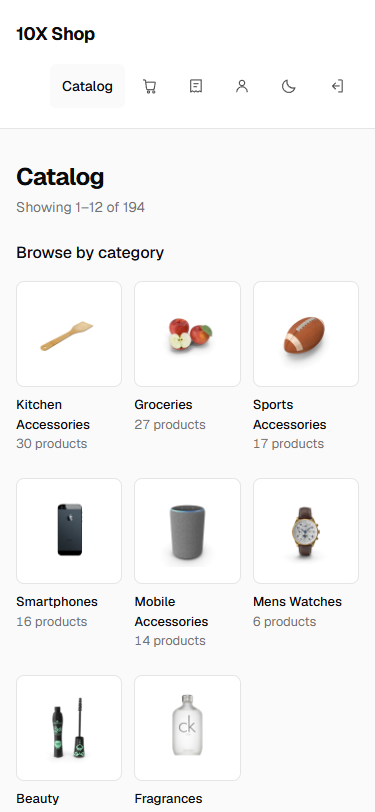
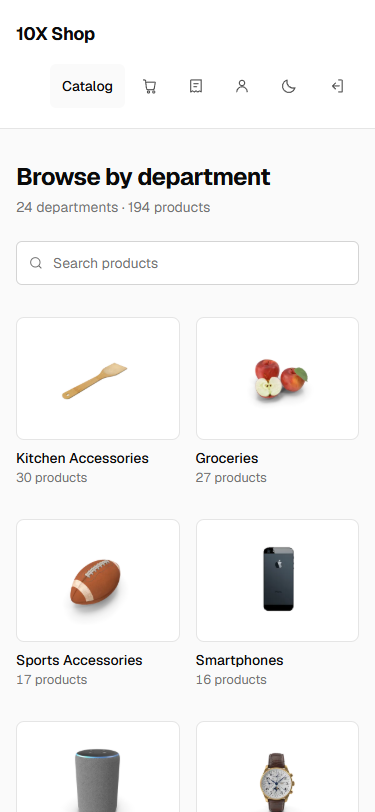
test: cover the department catalogue, and stop one failure killing the run
The cross-browser suite was edited for the new catalogue and not re-run - the
exact failure entry 8 of the debug log is about. Running it produced no
results at all, in either browser: the screenshot block after the last
assertion still waited for an `article` on /catalog, where there are none any
more, and because that block sits outside `step()`'s try/catch the timeout
was uncaught and killed the process before the results were ever printed. One
stale wait destroyed 83 passing assertions.

The waits now name what each state actually renders, and both states are
captured: `-catalog` is the departments, `-department` is inside one.

The one step that loaded 12 products became three, because the page it tested
became two pages: /catalog offers every department and shows no products,
opening one renders its products, and the unfiltered catalogue still pages
exactly twelve at a time. That last one is what keeps P2's CORE outcome
honest after the restructure.

The console check became a console-and-network check. Chrome logs one 404 per
run - the /products/999999 the suite asks for on purpose - and its message
names no URL, so it cannot be told from a genuinely missing asset by its text.
The script now watches responses too, allows that one URL, and fails on any
other status of 400 or worse. That is stricter than what it replaced: it
catches a failed request in Firefox, which Firefox never prints.

84 of 84 assertions, Chrome and Firefox, 375 and 1440, zero horizontal scroll.
[…]

diff --git a/COMPATIBILITY.md b/COMPATIBILITY.md
@@ -8,7 +8,7 @@ the production bundle (`npm run build` then `npm run preview`).
 - **Chrome 156.0.8078.76** — the installed Google Chrome, not bundled Chromium.
 - **Firefox 142.0.1** — Gecko, so the two engines are genuinely different.
 - **Widths:** 375 × 812 (the width O3 names) and 1440 × 900.
-- **Date:** 31 October 2026, re-run against the Sign up work.
+- **Date:** 1 November 2026, re-run against the department catalogue.
 - **Method:** `docs/compat/README.md` records the script and how to re-run it.
 
 > **This matrix went stale once, and that is worth recording.** The first run
@@ -34,7 +34,9 @@ document did not scroll sideways at that width.
 | # | What was checked | Chrome 375 | Chrome 1440 | Firefox 375 | Firefox 1440 |
 | --- | --- | :-: | :-: | :-: | :-: |
 | 0 | Landing shows every category and a sheet of real product photographs | ✓ | ✓ | ✓ | ✓ |
-| 1 | Catalog loads and renders exactly 12 product cards | ✓ | ✓ | ✓ | ✓ |
+| 1a | `/catalog` opens on every department and shows no products yet | ✓ | ✓ | ✓ | ✓ |
+| 1b | Opening a department renders its products as cards | ✓ | ✓ | ✓ | ✓ |
+| 1c | The unfiltered catalogue still pages exactly 12 at a time | ✓ | ✓ | ✓ | ✓ |
 | 2 | A card opens `/products/:id` | ✓ | ✓ | ✓ | ✓ |
 | 3 | Add to cart moves the header badge to 1 | ✓ | ✓ | ✓ | ✓ |
 | 4 | Cart shows the line and a currency-formatted total | ✓ | ✓ | ✓ | ✓ |
@@ -52,9 +54,18 @@ document did not scroll sideways at that width.
 | 16 | `/products/999999` shows "Page not found" | ✓ | ✓ | ✓ | ✓ |
 | 17 | `/products/5` opens from a direct visit (SPA rewrite) | ✓ | ✓ | ✓ | ✓ |
 | — | No horizontal scroll after every step above | ✓ | ✓ | ✓ | ✓ |
+| — | No console error and no unexpected failed request | ✓ | ✓ | ✓ | ✓ |
 
-**72 of 72 assertions passed** — 18 steps × 2 widths × 2 browsers. No layout or
-behavioural difference was found between the two engines, at either width.
+**84 of 84 assertions passed** — 20 steps plus one console-and-network check,
+each at 2 widths in 2 browsers. No layout or behavioural difference was found
+between the two engines, at either width.
+
+Rows 1a to 1c are the three the catalogue restructure added. The catalogue now
+opens on its departments, so 1a asserts both halves of that — every department
+is offered, and no products are shown before one is chosen. 1b proves a
+department really fetches and renders its own stock. 1c keeps the CORE P2
+promise honest: asking for the whole catalogue still returns a page of exactly
+twelve, so the restructure changed the entry point, not the pagination.
 
 Rows 9 and 10 are the pair that matters most. Sign up would be meaningless if
 the password it set were never checked (row 9), and CORE would be broken if
@@ -62,13 +73,15 @@ signing up became a precondition for logging in (row 10) — A1.6 fixes that any
 non-empty username signs in, and the CORE Measurable Outcome for P1 depends on
 it. Both are asserted on every run so neither can regress unnoticed.
 
-Screenshots of the catalogue in each browser at each width are in
-`docs/compat/`:
+Screenshots of both of the catalogue's states, in each browser at each width,
+are in `docs/compat/`:
 
 | | 375px | 1440px |
 | --- | --- | --- |
-| Chrome | `chrome-mobile-catalog.png` | `chrome-desktop-catalog.png` |
-| Firefox | `firefox-mobile-catalog.png` | `firefox-desktop-catalog.png` |
+| Chrome, departments | `chrome-mobile-catalog.png` | `chrome-desktop-catalog.png` |
+| Chrome, one department | `chrome-mobile-department.png` | `chrome-desktop-department.png` |
+| Firefox, departments | `firefox-mobile-catalog.png` | `firefox-desktop-catalog.png` |
+| Firefox, one department | `firefox-mobile-department.png` | `firefox-desktop-department.png` |
 
 ## The one difference, and why it is not a defect
 
@@ -79,17 +92,26 @@ Failed to load resource: the server responded with a status of 404 ()
   https://dummyjson.com/products/999999
 ```
 
-That request is row 12 doing its job. `fetchProductById` asks DummyJSON for a
+That request is row 16 doing its job. `fetchProductById` asks DummyJSON for a
 product that does not exist, DummyJSON answers 404, and the function returns
 `null` so the page can show "Page not found" rather than an error. Chrome
 reports every failed HTTP response in the console whether or not the page
 handles it; Firefox does not. Nothing is thrown, nothing is unhandled, and the
 user-facing result is identical in both browsers.
 
-Confirmed by listening for failing responses directly: loading the catalogue,
-a real product, the cart, login and checkout produces no failing request in
-either browser. The only 404 in the whole suite is the one above, which the
-application asks for on purpose.
+**The suite now tells the two apart itself**, rather than leaving a red cell for
+a human to excuse. Chrome's message names no URL — it is the same sentence for a
+deliberate probe and for a genuinely missing asset — so the script cannot judge
+it from the text. It listens to the network as well, treats one named URL
+(`dummyjson.com/products/999999`) as expected, and fails the run on any other
+request of status 400 or worse. That makes the check stricter than the console
+one it replaced: it now also catches a failed request in Firefox, which Firefox
+would never have printed.
+
+Verified by walking every route with a response listener attached. The landing
+page, the departments, one department, the paged catalogue, a real product,
+`/nope` and `/products/abc` produce no failing request at all. The only 404 in
+the whole suite is the one above, which the application asks for on purpose.
 
 ## What was not covered
 

diff --git a/REPORT.md b/REPORT.md
@@ -40,7 +40,7 @@ its reason.
 | Landing (not in Annex A) | The shop as its own mail-order catalogue: cover, issue figures, two scrollable runs, departments | Added on instruction |
 | P1 Login | Controlled form, required validation, Context update, redirect | Done |
 | P1.1 Sign Up | FULL — local accounts, hashed password, duplicate names refused | Done on instruction |
-| P2 Catalog | `GET /products`, typed data, ProductCard/Grid, navigation, Add to cart | Done |
+| P2 Catalog | `GET /products`, typed data, ProductCard/Grid, navigation, Add to cart | Done; opens on departments (deviation 2) |
 | P2.2-P2.8 Catalog FULL | Skeletons, Retry, AbortController, search + debounce, category, sort, pagination, URL-as-state | Done |
 | P3 Product | `useParams`, `GET /products/:id`, details, stock states, Add to cart | Done |
 | P3.4-P3.5 Product FULL | Tabs, reviews with a live average, related products | Done |
@@ -61,12 +61,14 @@ Lighthouse report, the cross-browser matrix, `@theme`, generics, OOP).
 Step 24, deploy, is prepared but not executed — it is the one requirement of
 any level still open.
 
-### One deliberate deviation from Annex A1.2
+### Two deliberate deviations from Annex A1.2
 
-**`/` is a landing page; the catalogue is at `/catalog`.** A1.2's route map
-puts the catalogue at `/`, and this moves it. It was asked for, and it is the
-only place the implementation knowingly departs from the route map, so it is
-recorded here rather than left for a reader to discover.
+Both were asked for, both touch how a shopper reaches the products, and both
+are recorded here rather than left for a reader to discover.
+
+#### 1. `/` is a landing page; the catalogue is at `/catalog`
+
+A1.2's route map puts the catalogue at `/`, and this moves it.
 
 What was done to keep the CORE outcomes intact:
 
@@ -77,12 +79,50 @@ What was done to keep the CORE outcomes intact:
   the first screen.
 - **Every link whose words say "catalog" goes to `/catalog`**, and P1.3's
   fallback after sign-in — "otherwise the catalogue" — points there too.
-- **`/catalog` is the full P2 page**, unchanged: twelve products, the toolbar,
-  pagination and the URL as state.
+- **`/catalog` is still the full P2 page**: the same request, the same
+  `ProductGrid`, the same toolbar, twelve to a page and the URL as state. What
+  changed is only which of its two states opens first — see the next deviation.
 - The cross-browser suite asserts both, so neither can regress unnoticed.
 
 Putting the catalogue back at `/` is a two-line change in `AppRoutes.tsx` if
 an examiner would rather have the route map followed literally.
+
+#### 2. `/catalog` opens on its departments, not on products
+
+P2's CORE Measurable Outcome is that opening the catalogue shows a grid of
+products fetched from the API. `/catalog` now opens on all 24 departments
+instead, each a card with its own photograph and live count; the products
+appear once one is chosen. This was asked for in those words — leave only
+"browse by department" on the catalogue page, and show each category's products
+when a shopper navigates into it.
+
+It is a real deviation and worth naming plainly: a reader following A1.2 and
+P2.1 expects `/catalog` to render cards, and on first load it does not.
+
+What was done to keep the CORE outcome intact:
+
+- **`/catalog` still calls the products endpoint on open.** The departments
+  view is built from the same `fetchStorefront()` request, and the count on
+  each card is real API data, so the page still proves the fetch works before
+  a single product is shown.
+- **Products are one click away, and nothing about them changed.** A department
+  renders the same `ProductGrid` of the same `ProductCard`s, with the toolbar,
+  the sort, the pagination and the URL as state all intact.
+- **The grid of twelve is still reachable directly and still asserted.**
+  `/catalog?page=1&sort=title-asc` returns exactly twelve cards, and the
+  cross-browser matrix checks that on every run (row 1c) alongside the two new
+  department rows — so the restructure cannot quietly become a loss of P2.
+- **Search still spans the whole catalogue.** Typing in the search field — on
+  the departments view or in the toolbar — queries every product, not one
+  department, so the departments are an entry point rather than a wall.
+
+The condition is one expression in `CatalogPage.tsx`:
+
+```tsx
+const showingDepartments = !hasFilters && params.page === 1
+```
+
+Inverting it restores A1.2's behaviour exactly, with no other change.
 
 ### Not delivered, and why
 

diff --git a/DEBUG-LOG.md b/DEBUG-LOG.md
@@ -476,6 +476,59 @@ currently compiles without.
 
 ---
 
+## 12. The cross-browser suite stopped producing any result at all
+
+**Symptom.** `node cross-browser-check.mjs` exited 1 and wrote an empty
+results file. Not one failing row — nothing, in either browser:
+
+```
+page.waitForSelector: Timeout 20000ms exceeded.
+Call log:
+  - waiting for locator('article') to be visible
+    at run (check.mjs:254:16)
+```
+
+**Reproduction.** Run the suite against the department catalogue. Line 254 is
+not in a step; it is the screenshot block after the last one.
+
+**Tool.** The exit code, then the stack trace's line number. The trace pointed
+at line 254 while the last assertion in the file ends at 251 — which was itself
+the clue: the failure was *after* the tests.
+
+**Root cause.** Two mistakes meeting. The first is a stale wait: the suite ends
+by loading `/catalog` and screenshotting it, and it waited for an `article` to
+appear there. That was right for a catalogue that opened on a grid of products
+and wrong the moment `/catalog` became a page of departments, which render no
+`article` at all.
+
+The second is the one that did the damage. Every assertion in this script runs
+inside `step()`, which catches, records the failure and carries on. The
+screenshot block sits outside it. So a stale wait that should have been one red
+cell became an uncaught `TimeoutError` that killed the process before
+`console.log(JSON.stringify(...))` on the last line ever ran — destroying the
+other 83 results, including the 20 that had already passed.
+
+**Fix.** The waits now name what each state actually renders:
+`a[href^="/catalog?category="]` for the departments view, `article` only for
+views that show cards. Both states are screenshotted, so the evidence folder
+now carries `-catalog` (the departments) and `-department` (inside one).
+
+**Verification.** 84 of 84 assertions, Chrome and Firefox, 375 and 1440, zero
+horizontal scroll — and the three new catalogue steps among them. The run that
+proves the restructure is the run the restructure had broken.
+
+**What I learned.** This is entry 8's lesson arriving from the other side. There
+I wrote that a check nobody re-runs is not a check; here the check was re-run
+immediately and still told me nothing, because the harness was less robust than
+the thing it was testing. A step that fails should cost one row. Anything
+outside the error handling can cost the whole run, so there should be as little
+of it as possible — and what is left should assert nothing. Reaching for
+`article` as shorthand for "the catalogue has loaded" was also a habit worth
+dropping: it encoded what the page happened to look like last month rather than
+what the step actually needed.
+
+---
+
 ## Checking the error boundary
 
 Not a bug, but worth recording since the boundary is otherwise invisible.

diff --git a/docs/compat/README.md b/docs/compat/README.md
@@ -28,7 +28,8 @@ and every `overflow` is `false`.
 
 ## What it asserts
 
-Eighteen steps — the landing page, catalogue, product, cart, the checkout guard, login
+Twenty steps — the landing page, the catalogue in both of its states, one
+department, the paged catalogue, a product, the cart, the checkout guard, login
 validation, sign up and its two account rules, the order, the three Not-found
 cases and a direct visit to a deep URL — plus a horizontal-scroll measurement
 after each one, in Chrome and Firefox, at 375 × 812 and 1440 × 900.
@@ -41,11 +42,31 @@ it points, `article a[href^="/products/"]`, not by the heading level it happens
 to sit in. An earlier version used `article h3 a` and went quiet the moment an
 accessibility fix changed that heading to `h2`.
 
+**Each wait names what that state actually renders.** The same lesson caught the
+script a second time when `/catalog` became a page of departments: the final
+screenshot block still waited for an `article` there, and because it sat outside
+`step()`'s try/catch it threw and took the entire run down — no results file at
+all, in either browser. Waits on the departments view now look for
+`a[href^="/catalog?category="]`, and only the views that render cards wait for
+`article`.
+
+**Expected failures are named, not ignored.** The suite asks DummyJSON for
+`/products/999999` on purpose, so that one URL is allowed to 404. Every other
+response of status 400 or worse fails the run, in both engines — see the last
+section of `COMPATIBILITY.md`.
+
 ## Screenshots
+
+Both of the catalogue's states are captured: `-catalog` is the departments a
+shopper lands on, `-department` is `/catalog?category=laptops` inside one.
 
 | File | Browser | Width |
 | --- | --- | --- |
 | `chrome-mobile-catalog.png` | Chrome 156 | 375px |
 | `chrome-desktop-catalog.png` | Chrome 156 | 1440px |
+| `chrome-mobile-department.png` | Chrome 156 | 375px |
+| `chrome-desktop-department.png` | Chrome 156 | 1440px |
 | `firefox-mobile-catalog.png` | Firefox 142 | 375px |
 | `firefox-desktop-catalog.png` | Firefox 142 | 1440px |
+| `firefox-mobile-department.png` | Firefox 142 | 375px |
+| `firefox-desktop-department.png` | Firefox 142 | 1440px |
